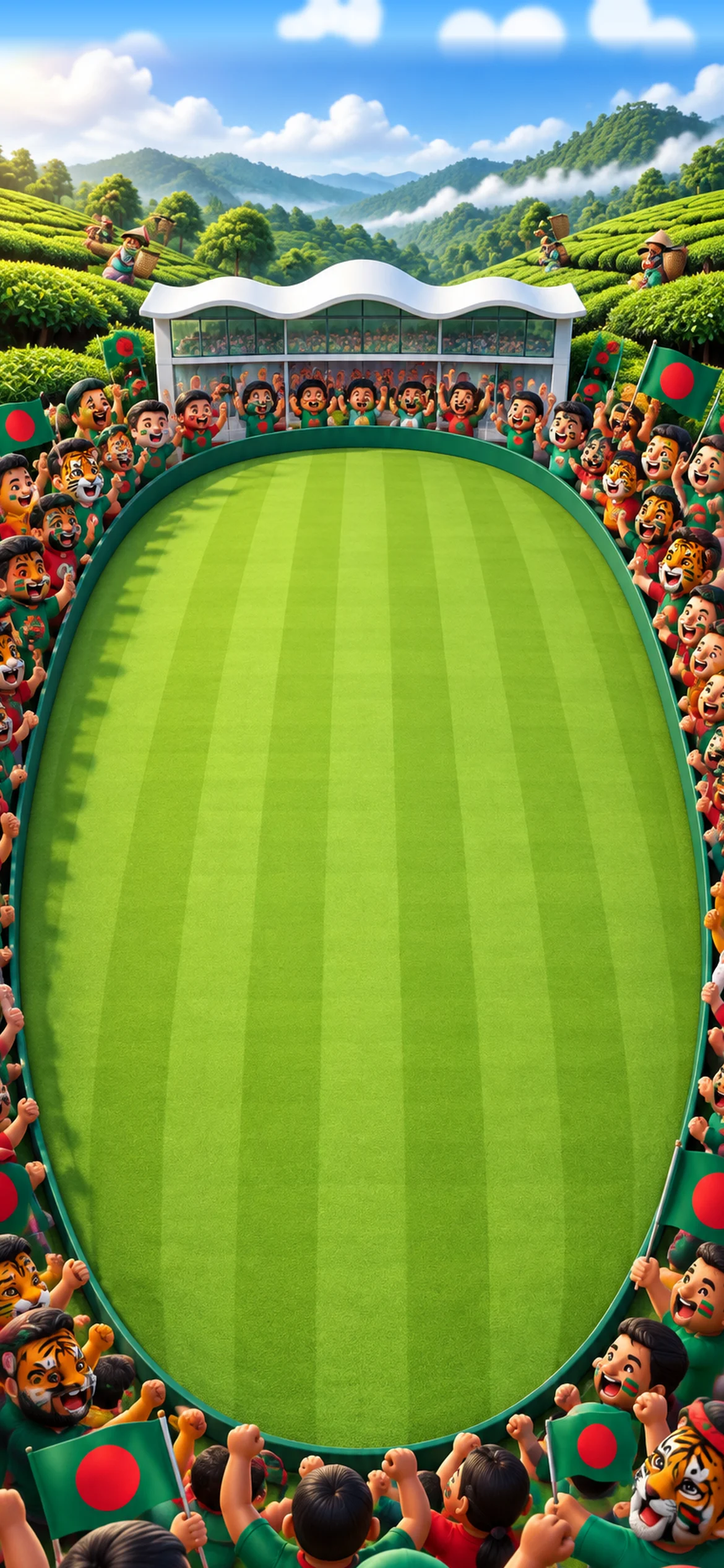
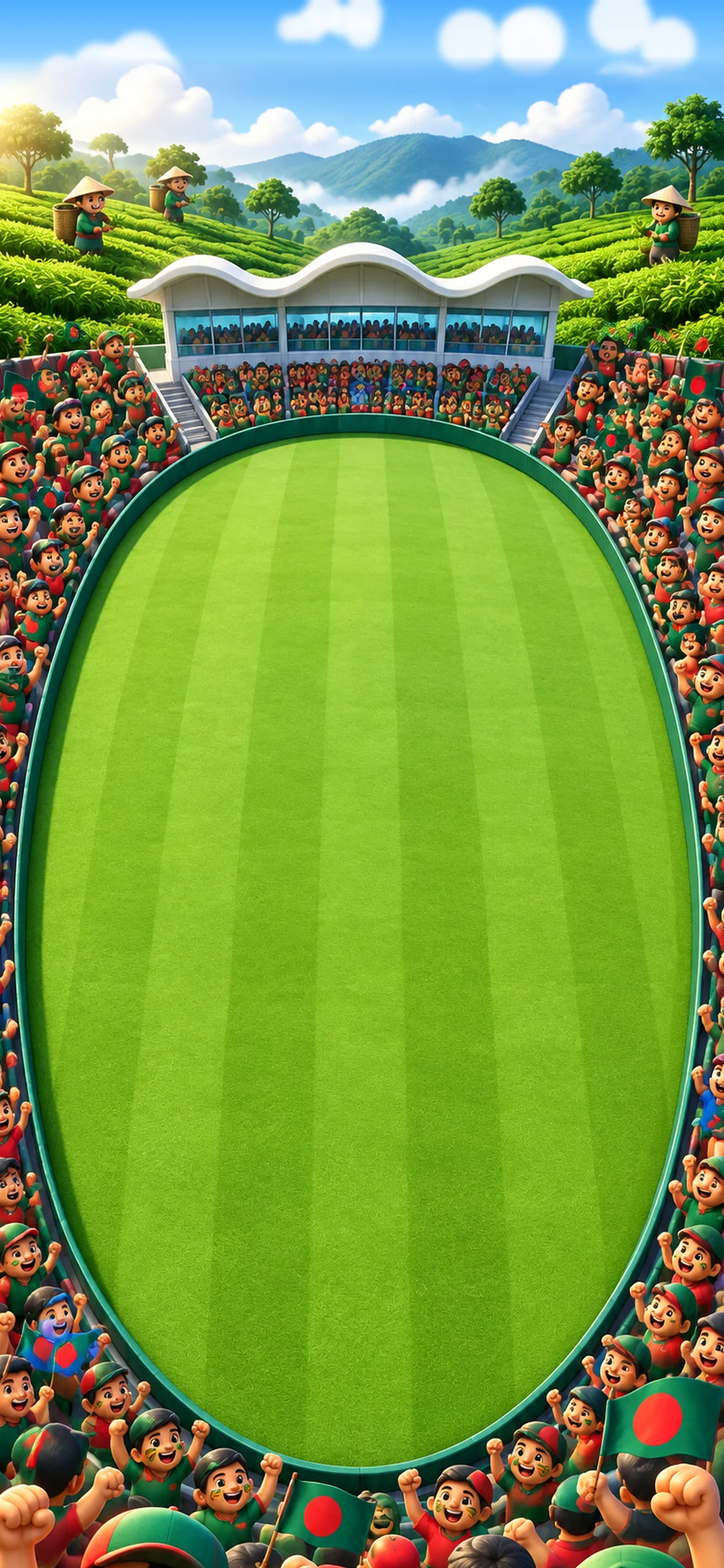
Sylhet v2: crowd size between Chattogram and v1
Claude-Session: https://claude.ai/code/session_01EnXvJ6P6HcGRxjBSnYPdAU

diff --git a/art/grounds/layout/PROMPTS.md b/art/grounds/layout/PROMPTS.md
@@ -142,9 +142,10 @@ Ground 1 · HUD 1 · props 1 · fielder 4 · bowler 1 · keeper + umpire 1 · wo
 - HUD (MATCH_HUD in the code): scoreboard 3.1%–62.1% W, 7.3%–19.0% H; pause 85.1%–96.4% W, 7.6%–12.8% H.
 - Far stumps 50.0% H, batter's stumps 66.5% H, umpire 48.8% H, all at 50% W.
 
-## BIG CROWD camera (Joe, Nov 3: "the crowd have gone small again")
-Use this CAMERA block on every ground from 12.c Sylhet on:
+## CROWD SIZE camera (Joe, Nov 3: Chattogram "crowd gone small again", Sylhet v1 "too big now")
+The right size sits in between — Sylhet v2 (Figma 475:191). Use this CAMERA block on every ground:
 ```
-CAMERA: CLOSE — the camera is pulled in tight. BIG CROWD: every spectator is BIG and chunky with a big round head and waving arms. In the side strips each fan's head is about one twelfth of the picture's width, so only two or three rows of fans fit across each side strip. The SAME big size all the way round: down both sides, at the far end and at the bottom. NO rows of tiny people, NO small distant crowd, NO high tiers. Only the front rows of big fans, then the far-end stand close behind the boards. No wide view, no panorama.
+CAMERA: CLOSE — the camera is pulled in tight. The crowd people are chunky with big round heads and waving arms, each fan's head about one twentieth of the picture's width, so four or five rows of fans fit across each side strip. Every spectator the SAME size everywhere including the far end and the very bottom edge. The stands run straight OFF the edges of the picture: we only see their lower tiers packed with chunky fans. No tiny distant crowd, no wide view, no panorama.
 ```
-With it, pair the FIELD wording "one twelfth strip, like a fat egg, one and a half times as tall as it is wide, top a quarter of the way down" (screens ~1.49–1.51).
+Too small = tiers of tiny people (Chattogram, Mirpur). Too big = only 2–3 rows of huge heads (head 1/12 width, Sylhet v1).
+Pair with FIELD "one tenth strip, about one and a half times as tall as it is wide, top a fifth of the way down" (screened 1.577).

diff --git a/art/grounds/ART_PACKAGE.md b/art/grounds/ART_PACKAGE.md
@@ -179,3 +179,4 @@ Nodes: Galle 462:191, Colombo 462:194, Kandy 462:195, Dambulla 463:191, Mumbai 4
 - 12.a Mirpur: plate 472:191 (ratio 1.580, "one ninth strip, one and two-thirds"), board 472:193 magenta (compose_mirpur.py), props 472:194, words 472:195. Pitch {ct 67, cb 801, wb 325}. Extras: house crows, red flag, painted rickshaw.
 - 12.b Chattogram: plate 473:203 (ratio 1.587, same close recipe as Mirpur — Joe: 'remember the camera angle and sizes, don't stray'; a 'very close front rows' variant was tried and rejected for straying), board 473:199 magenta (compose_chattogram.py), props 473:200, words 473:201. Pitch {ct 72, cb 778, wb 287}. Extras: magpie-robins, green flag, river boat.
 - 12.c Sylhet: plate 474:196 (ratio 1.508, fit within ~17 px). Joe: 'the crowd have gone small again' — CAMERA now says each side-strip fan head ~1/12 of picture width, only 2–3 rows per side strip, no tiers of tiny people. With that big crowd the field paints taller, so ask for 'one twelfth strip, one and a half times as tall, top a quarter down' (gave 1.51/1.49; 'one ninth, three-fifths' gave 1.73–1.79). Board 474:193 (compose_sylhet.py), props 474:194, words 474:195. Pitch {ct 102, cb 739, wb 268}. Extras: egrets, green flag, tea basket. BCL complete.
+- 12.c Sylhet v2: plate 475:191 (ratio 1.584, fit within ~11 px) — crowd head ~1/20 width, 4–5 rows per side strip (v1 'too big'). This is now the standard crowd size (PROMPTS.md).
